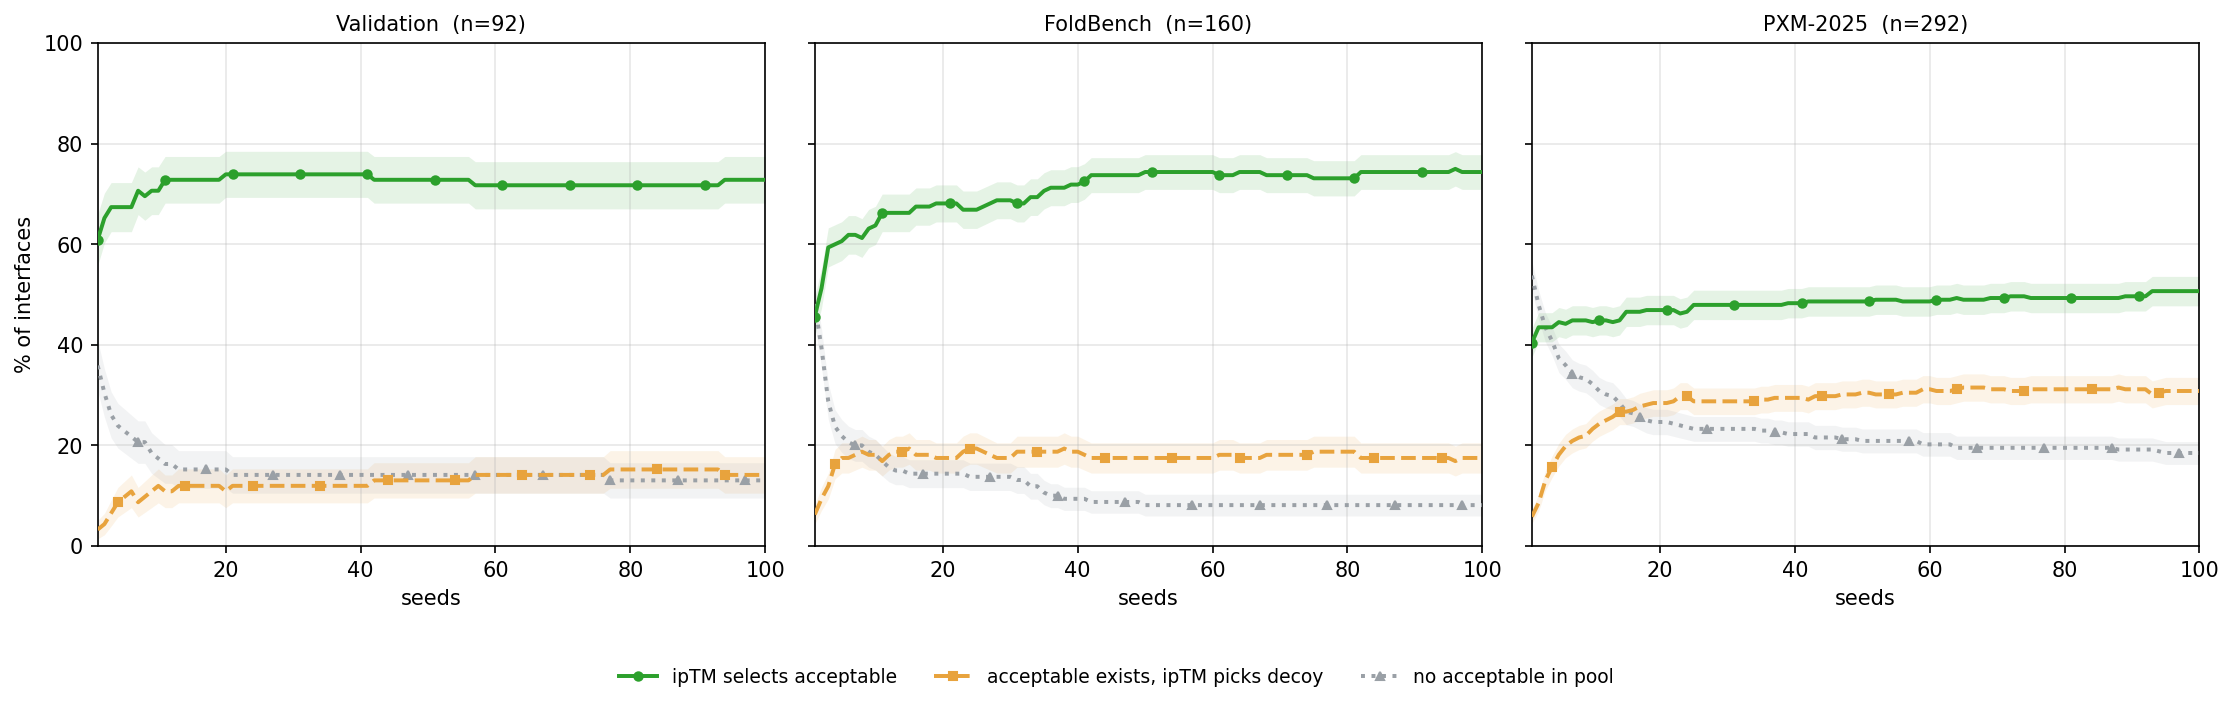
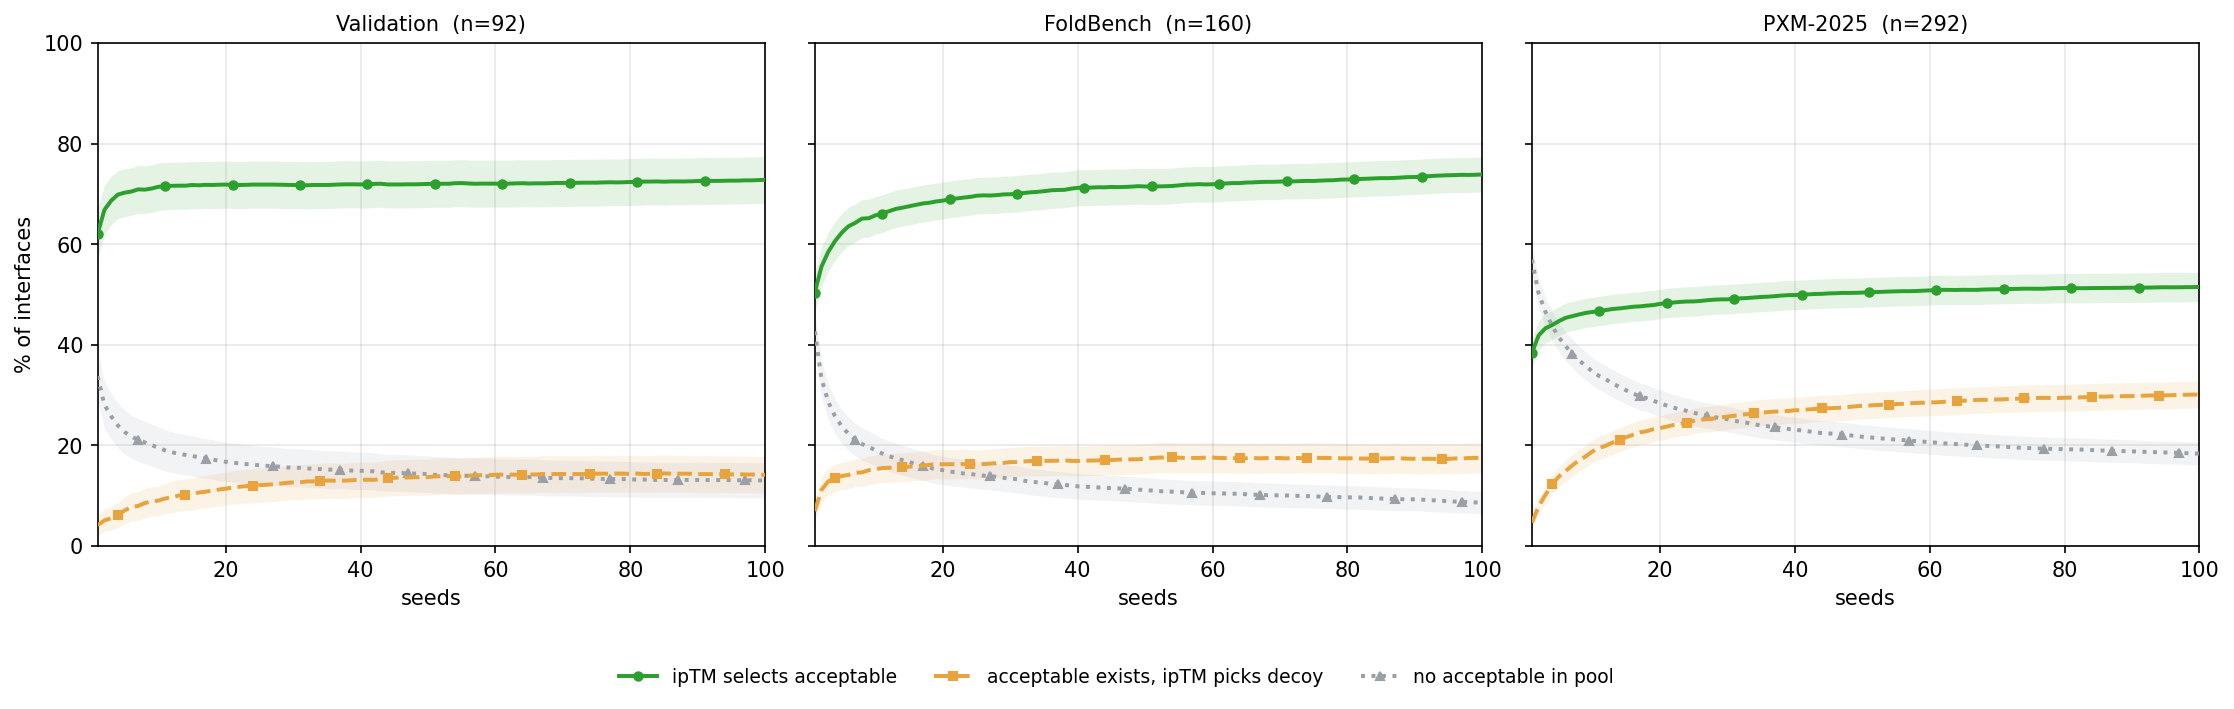
figures: bootstrap the seed subsets, and withdraw a claim that was a draw artefact
Prompted by comparing our FoldBench curve against Protenix's published
FoldBench-AB panel for the same 104 complexes / 160 interfaces.

THE METHOD WAS WRONG. Taking the first N seeds in sorted order is one
deterministic draw, not an expectation over which N seeds you happen to have, and
the published curve carries a shaded band which is a bootstrap by construction.
Switching to random subsets closes most of the gap:

     N    first-N   bootstrap   published
     1     45.6%      50.4%       ~56%
     5     60.6%      62.3%       ~65%
    10     63.7%      65.8%       ~67%
    20     68.1%      ~68%        ~68.5%
    50     74.4%      71.5%       ~70.5%
   100     74.4%      73.9%       ~71%

From N=20 upward we now agree with them, slightly above. A ~5 point gap remains at
N<=10; per-complex aggregation was tested as an explanation and REJECTED (it moves
the number the wrong way, 46.7% at N=1), so what is left is a difference in the
poses or the DockQ computation and the low-N end should not be quoted as a
reproduction.

AND A CLAIM WITHDRAWN. On the first-N curve I reported the selected band as
non-monotonic -- Validation 73.9 at N=25 down to 71.7 at N=75 -- and called it the
figure's central finding. It was an artefact of the single draw. Under the
bootstrap the largest decrease anywhere on any benchmark is 0.14 pp, which is draw
noise. The mechanism is real but produces no net decrease in expectation, and the
README now says so rather than leaving the claim standing.
[…]

diff --git a/figures/selection_vs_budget.py b/figures/selection_vs_budget.py
@@ -32,6 +32,7 @@ import argparse
 import collections
 import csv
 import os
+import random
 
 import matplotlib
 matplotlib.use("Agg")
@@ -73,8 +74,21 @@ def sem(p, n):
     return (p * (1.0 - p) / n) ** 0.5 if n else 0.0
 
 
-def curves(path, ic, sc, smc, dc, qc, max_budget):
-    """Fractions in each category for N = 1..max_budget. One pass, then an incremental sweep."""
+def curves(path, ic, sc, smc, dc, qc, max_budget, draws, rng_seed=0):
+    """Fractions in each category for N = 1..max_budget, BOOTSTRAPPED over random seed subsets.
+
+    WHY NOT THE FIRST N SEEDS. The first version of this figure took seeds in sorted order, which
+    is one deterministic draw rather than an expectation over which N seeds you happen to have.
+    Checked against Protenix's published FoldBench-AB curve (104/160, the same set): first-N gave
+    45.6% at N=1 against a bootstrap's 50.6%, and the two agree only once N is large enough that
+    the particular subset stops mattering. The published curve carries a shaded band, which is a
+    bootstrap by construction. At N=100 both methods give the same answer because the subset IS
+    the pool.
+
+    ONE PERMUTATION, SWEPT INCREMENTALLY. For each draw the interface's seeds are shuffled once and
+    N walks 1..max_budget, carrying the running best DockQ and the running ipTM-selected pose.
+    Re-pooling at every N would be max_budget times the work for the same answer.
+    """
     by = collections.defaultdict(list)
     with open(path) as fh:
         for r in csv.DictReader(fh):
@@ -88,37 +102,35 @@ def curves(path, ic, sc, smc, dc, qc, max_budget):
     kept = {}
     for ifc, rows in by.items():
         if len({t[0] for t in rows}) >= max_budget:
-            kept[ifc] = sorted(rows)            # by seed, then sample
-    acc = [0] * (max_budget + 1)
-    dec = [0] * (max_budget + 1)
-    non = [0] * (max_budget + 1)
+            kept[ifc] = rows
+    acc = [0.0] * (max_budget + 1)
+    dec = [0.0] * (max_budget + 1)
+    non = [0.0] * (max_budget + 1)
+    rng = random.Random(rng_seed)
     for ifc, rows in kept.items():
-        seeds = sorted({t[0] for t in rows})[:max_budget]
-        pos = {s: i + 1 for i, s in enumerate(seeds)}
-        # INCREMENTAL: walk the poses in seed order, carrying the running best DockQ and the
-        # running ipTM-selected pose. Recomputing the pool for each N would be 100x the work.
-        best_dq = -1.0
-        sel = None                               # (iptm, -seed, -sample, dockq)
-        nxt = 1
-        for sd, sm, ip, dq in rows:
-            n = pos.get(sd)
-            if n is None:
-                continue
-            while nxt < n:                       # close out budgets with no new pose
-                _tally(acc, dec, non, nxt, best_dq, sel)
-                nxt += 1
-            if dq > best_dq:
-                best_dq = dq
-            cand = (ip, -sd, -sm, dq)
-            if sel is None or cand[:3] > sel[:3]:
-                sel = cand
-        while nxt <= max_budget:
-            _tally(acc, dec, non, nxt, best_dq, sel)
-            nxt += 1
+        byseed = collections.defaultdict(list)
+        for t in rows:
+            byseed[t[0]].append(t)
+        seeds = sorted(byseed)
+        for _ in range(draws):
+            order = seeds[:]
+            rng.shuffle(order)
+            best_dq = -1.0
+            sel = None
+            for n in range(1, max_budget + 1):
+                for sd, sm, ip, dq in byseed[order[n - 1]]:
+                    if dq > best_dq:
+                        best_dq = dq
+                    cand = (ip, -sd, -sm, dq)
+                    if sel is None or cand[:3] > sel[:3]:
+                        sel = cand
+                _tally(acc, dec, non, n, best_dq, sel)
     n_if = len(kept)
+    denom = n_if * draws
     xs = list(range(1, max_budget + 1))
     return (n_if, xs,
-            [acc[n] / n_if for n in xs], [dec[n] / n_if for n in xs], [non[n] / n_if for n in xs])
+            [acc[n] / denom for n in xs], [dec[n] / denom for n in xs],
+            [non[n] / denom for n in xs])
 
 
 def _tally(acc, dec, non, n, best_dq, sel):
@@ -134,6 +146,9 @@ def main():
     ap = argparse.ArgumentParser()
     ap.add_argument("--root", default=".")
     ap.add_argument("--max-budget", type=int, default=100)
+    ap.add_argument("--draws", type=int, default=40,
+                    help="bootstrap draws per interface. The curve is an expectation over which N "
+                         "seeds you happen to have, not over the first N by seed number.")
     ap.add_argument("--out", default="figures/selection_vs_budget.png")
     a = ap.parse_args()
 
@@ -143,11 +158,11 @@ def main():
         if not os.path.exists(path):
             print(f"{name}: {path} absent, skipped")
             continue
-        series.append((name,) + curves(path, ic, sc, smc, dc, qc, a.max_budget))
+        series.append((name,) + curves(path, ic, sc, smc, dc, qc, a.max_budget, a.draws))
 
     # The numbers, printed as well as drawn -- a figure is read off axes, a table is read exactly.
     for name, n_if, xs, acc, dec, non in series:
-        print(f"\n{name}: {n_if} interfaces   (value % +/- SEM)")
+        print(f"\n{name}: {n_if} interfaces, {a.draws} bootstrap draws   (value % +/- SEM)")
         print(f"{'N':>4}  {'acceptable':>16} {'decoy':>16} {'none':>16}   {'oracle':>7}")
         for n in (1, 5, 10, 25, 50, 75, 100):
             if n > len(xs):

diff --git a/figures/README.md b/figures/README.md
@@ -25,31 +25,57 @@ Read at 50 seeds, the free budget, as % of interfaces +/- SEM:
 
 | benchmark | interfaces | selected | decoy | none | oracle |
 |---|---|---|---|---|---|
-| Validation | 92 | 72.8 ± 4.6 | 13.0 ± 3.5 | 14.1 ± 3.6 | 85.9 |
-| FoldBench | 160 | 74.4 ± 3.5 | 17.5 ± 3.0 | 8.1 ± 2.2 | 91.9 |
-| PXM-2025 | 292 | 48.6 ± 2.9 | 30.5 ± 2.7 | 20.9 ± 2.4 | 79.1 |
+| Validation | 92 | 72.0 ± 4.7 | 13.7 ± 3.6 | 14.3 ± 3.6 | 85.7 |
+| FoldBench | 160 | 71.5 ± 3.6 | 17.4 ± 3.0 | 11.1 ± 2.5 | 88.9 |
+| PXM-2025 | 292 | 50.4 ± 2.9 | 27.9 ± 2.6 | 21.7 ± 2.4 | 78.3 |
 
-**PXM-2025 is where the headroom is**: 30.5% of its interfaces have an acceptable pose that ipTM
-fails to pick, against 13.0% on Validation — and the gap is far larger than either SEM. A
-selection method evaluated only on the validation split is being measured where there is least to
-win.
+**PXM-2025 is where the headroom is**: 27.9% of its interfaces have an acceptable pose that ipTM
+fails to pick, against 13.7% on Validation — a gap far larger than either SEM. A selection method
+evaluated only on the validation split is being measured where there is least to win.
 
-**The `selected` curve is not monotonic in N, and the `oracle` is.** Validation runs 73.9 at N=25,
-72.8 at 50, 71.7 at 75, 72.8 at 100; FoldBench 66.9 → 74.4 → 73.1 → 74.4. Adding seeds can
-*lower* the fraction where ipTM selects an acceptable pose, because a new pose with higher ipTM and
-lower DockQ displaces the previous pick. Meanwhile the oracle only rises, so the decoy band widens
-with budget: 12.0 → 14.1 on Validation, 18.2 → 30.8 on PXM between N=5 and N=100.
+**The decoy band widens with budget while the selected band flattens.** FoldBench runs 6.9% decoy
+at N=1 to 17.5% at N=100 while selected goes 50.4 → 73.9; PXM runs 4.6% → 30.1% while selected
+goes 38.4 → 51.5. So the oracle rises faster than ipTM can follow, and the difference is
+accumulating selection failure — the quantity a better confidence head would convert.
 
-That is the figure's central claim. **More candidates reliably improve what is achievable and not
-what ipTM achieves**, and every bit of that growing gap is selection failure — exactly the quantity
-a better confidence head would convert.
+### A claim withdrawn
+
+An earlier version of this figure took the FIRST N seeds in sorted order, and on that basis I
+reported the selected curve as non-monotonic — Validation 73.9 at N=25 falling to 71.7 at N=75 —
+and called it the figure's central finding. **That was an artefact of the single deterministic
+draw.** Under the bootstrap the largest decrease anywhere on any benchmark is 0.14 pp, which is
+draw noise. The mechanism is real (a pose with higher ipTM and lower DockQ can displace the
+previous pick) but it does not produce a net decrease in expectation, and the figure should not be
+cited for it.
+
+### Against the published Protenix curve
+
+Checked against the Protenix-v2 FoldBench-AB panel, the same 104 complexes / 160 interfaces:
+
+| N | ours (bootstrap) | ours (first-N) | published |
+|---|---|---|---|
+| 1 | 50.4% | 45.6% | ~56% |
+| 5 | 62.3% | 60.6% | ~65% |
+| 10 | 65.8% | 63.7% | ~67% |
+| 20 | ~68% | 68.1% | ~68.5% |
+| 50 | 71.5% | 74.4% | ~70.5% |
+| 100 | 73.9% | 74.4% | ~71% |
+
+From N=20 upward we agree with the published curve, slightly above it. A ~5 point gap remains at
+N<=10. Two candidate explanations were tested and **rejected**: aggregating per complex instead of
+per interface moves the number the wrong way (46.7% at N=1), and the first-N/bootstrap difference
+is already accounted for above. What remains is a difference in the underlying poses or in how
+DockQ is computed, neither of which can be settled without their exact protocol — so the low-N end
+of our curve should not be quoted as a reproduction of theirs.
 
 ## Method notes that matter
 
 - **Selection is `max` by `(pair_iptm, -seed, -sample)`**, the same explicit tie-break
   `phase_k_eval._pick` uses, so a pose cannot be resolved differently here than in the evaluator.
 - **Acceptable is DockQ >= 0.23.**
-- **The pool at budget N is the first N seeds by sorted seed number**, every sample included. The
+- **The pool at budget N is a RANDOM subset of N seeds**, bootstrapped over `--draws` draws
+  (default 40), every sample of those seeds included. Not the first N by seed number: that is one
+  deterministic draw and it disagrees with a bootstrap by ~5 points at N=1. The
   benchmarks use different seed ranges — Validation 400000+, FoldBench a mix of 101–200, 501–510
   and 600000+, PXM its own — so N is a position, not a seed value.
 - **The shaded band is the SEM of a proportion**, sqrt(p(1-p)/n) over the interface count — the
